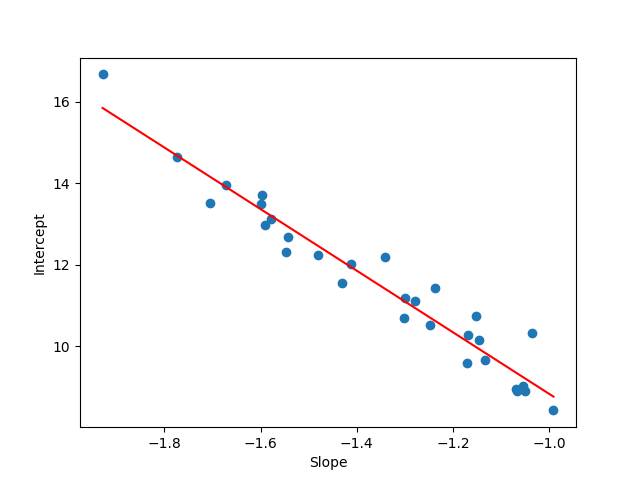
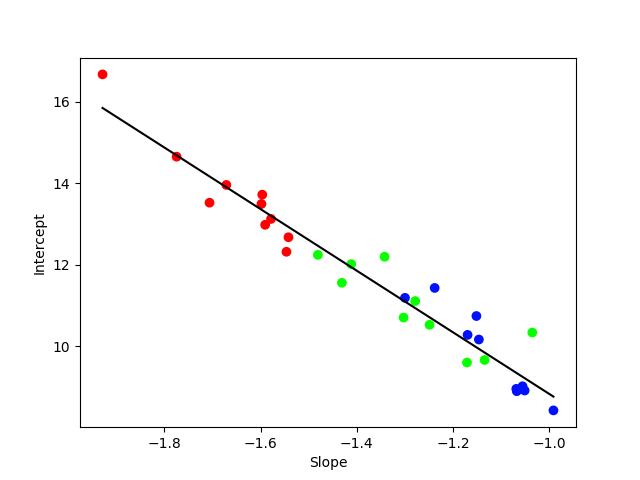
add colors to zipf relations

diff --git a/src/lexical_diversity.py b/src/lexical_diversity.py
@@ -5,6 +5,8 @@ import random
 import re
 import numpy as np
 from sklearn.linear_model import LinearRegression
+import matplotlib.pyplot as plt
+from matplotlib import cm
 
 __version__ = 0.2
 __authors__ = ["aris.xanthos@unil.ch", "guillaume.guex@unil.ch"]
@@ -157,5 +159,88 @@ def counter_to_zipf_data(counter, shifts=np.linspace(0, 200, 401)):
                  np.log(frequencies))
     
     return ranks, frequencies, lm_model, estimated_shift
+
+class TextGenerator:
+    """A class to create artificial texts, following a zipf-mandelbrot 
+    distribution parametrized by the slope only. The intercept and the shift 
+    are deduced from data"""
     
+    # Constructor
+    def __init__(self):
+        self.slopes = np.empty((0))
+        self.intercepts = np.empty((0))
+        self.shifts = np.empty((0))
+        self.model_sl_in = LinearRegression()
+        self.model_sl_sh = LinearRegression()
+        self.model_in_sh = LinearRegression()
+        
+    # Fit the models
+    def fit(self, slopes, intercepts, shifts):
+        self.slopes = slopes
+        self.intercepts = intercepts
+        self.shifts = shifts
+        self.model_sl_in.fit(slopes.reshape(-1, 1), intercepts)
+        self.model_sl_sh.fit(np.log(-slopes).reshape(-1, 1), np.log(shifts))
+        self.model_in_sh.fit(np.log(intercepts).reshape(-1, 1), np.log(shifts))
+
+    # Plot the relationships
+    def plot(self, groups=None):
+        
+        # Group colors 
+        if groups is not None:
+            gr_fact = np.unique(groups, return_inverse=True)
+            cmap = cm.get_cmap("hsv", len(gr_fact[0]) + 1)
+            gr_color = {fact:cmap(i) for i, fact in enumerate(gr_fact[0])}
+            
+        # Intercepts from slopes
+        sorted_sl = np.sort(self.slopes)
+        in_from_sl = self.model_sl_in.predict(sorted_sl.reshape(-1, 1))
+        in_sl_fig, in_sl_ax = plt.subplots()
+        if groups is not None:
+            in_sl_ax.scatter(self.slopes, self.intercepts, 
+                             c=groups.map(gr_color))
+        else:
+            in_sl_ax.scatter(self.slopes, self.intercepts)
+        in_sl_ax.plot(sorted_sl, in_from_sl, color="black")
+        in_sl_ax.set_xlabel("Slope")
+        in_sl_ax.set_ylabel("Intercept")
+        
+        # Shifts from slopes
+        sh_from_sl = np.exp(
+            self.model_sl_sh.predict(np.log(-sorted_sl).reshape(-1, 1)))
+        sh_sl_fig, sh_sl_ax = plt.subplots()
+        if groups is not None:
+            sh_sl_ax.scatter(self.slopes, self.shifts, 
+                             c=groups.map(gr_color))
+        else:
+            sh_sl_ax.scatter(self.slopes, self.shifts)
+        sh_sl_ax.plot(sorted_sl, sh_from_sl, color="black")
+        sh_sl_ax.set_xlabel("Slope")
+        sh_sl_ax.set_ylabel("Shift")
+
+        # Shifts from intercepts
+        sorted_in = np.sort(self.intercepts)
+        sh_from_in = np.exp(
+            self.model_in_sh.predict(np.log(sorted_in).reshape(-1, 1)))
+        sh_in_fig, sh_in_ax = plt.subplots()
+        if groups is not None:
+            sh_in_ax.scatter(self.intercepts, self.shifts, 
+                             c=groups.map(gr_color))
+        else:
+            sh_in_ax.scatter(self.intercepts, self.shifts)
+        sh_in_ax.plot(sorted_in, sh_from_in, color="black")
+        sh_in_ax.set_xlabel("Intercept")
+        sh_in_ax.set_ylabel("Shift")
+        
+        return in_sl_fig, in_sl_ax, sh_sl_fig, sh_sl_ax, sh_in_fig, sh_sl_ax
+    
+    # Get zipf-mandelbrot parameters
+    def get_parameters(self, slope):
+        intercept = self.model_sl_in.predict(
+            np.array(slope).reshape(-1, 1))[0]
+        shift = np.exp(self.model_sl_sh.predict(
+            np.array(np.log(-slope)).reshape(-1, 1)))[0]
+        return slope, intercept, shift
+        
+            
     

diff --git a/src/artificial_corpora_zipf_relations.py b/src/artificial_corpora_zipf_relations.py
@@ -1,0 +1,42 @@
+import pandas as pd
+import numpy as np
+import matplotlib.pyplot as plt
+from sklearn.linear_model import LinearRegression
+from lexical_diversity import TextGenerator
+
+
+# -------------------------------
+# --- SCRIPT PARAMETERS
+# -------------------------------
+
+input_file_path = "../results/real_corpora/real_corpora_indices_5000_10.csv"
+output_folder_path = "../results/real_corpora"
+
+
+# -------------------------------
+# --- CODE
+# -------------------------------
+
+# Load dataset
+ld_stat_df = pd.read_csv(input_file_path, index_col=0)
+
+# Get groups
+groups = ld_stat_df["group"]
+
+# Keep numerical data
+num_data = ld_stat_df.drop(["name", "group"], axis=1)
+
+# Extract quantities of interest
+slopes = num_data["zipf_slope"].to_numpy()
+intercepts = num_data["zipf_intercept"].to_numpy()
+shifts = num_data["zipf_shift"].to_numpy()
+
+# Fit the generator
+my_generator = TextGenerator()
+my_generator.fit(slopes, intercepts, shifts)
+
+# Plot the relationships
+in_sl_fig, _, sh_sl_fig, _, sh_in_fig, _ = my_generator.plot(groups)
+in_sl_fig.savefig(f"{output_folder_path}/slope_intercept")
+sh_sl_fig.savefig(f"{output_folder_path}/slope_shift")
+sh_in_fig.savefig(f"{output_folder_path}/intercept_shift")
